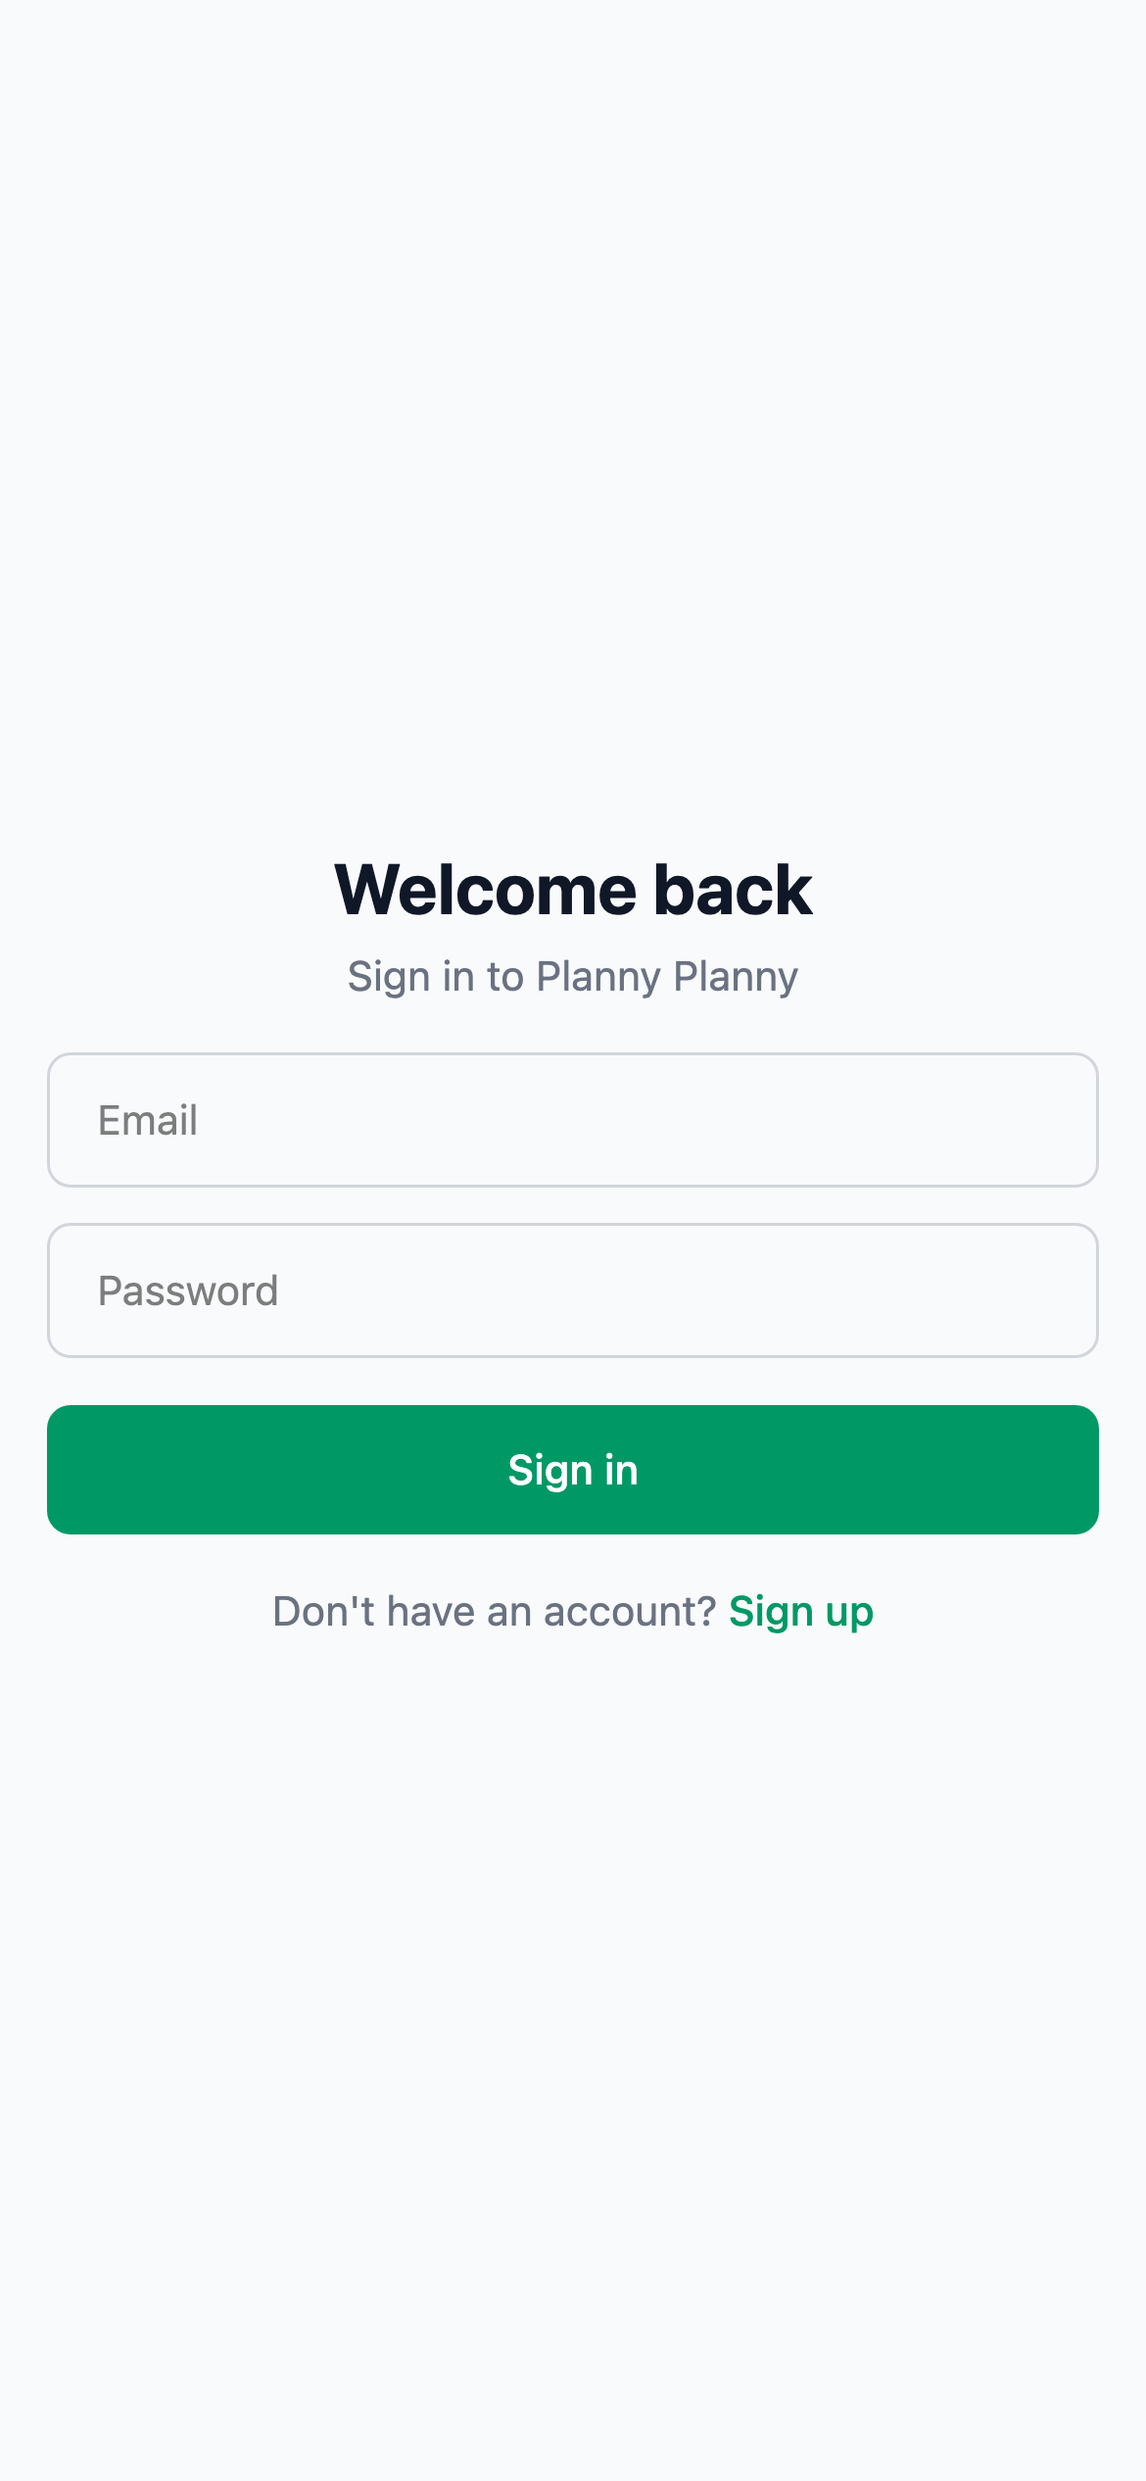
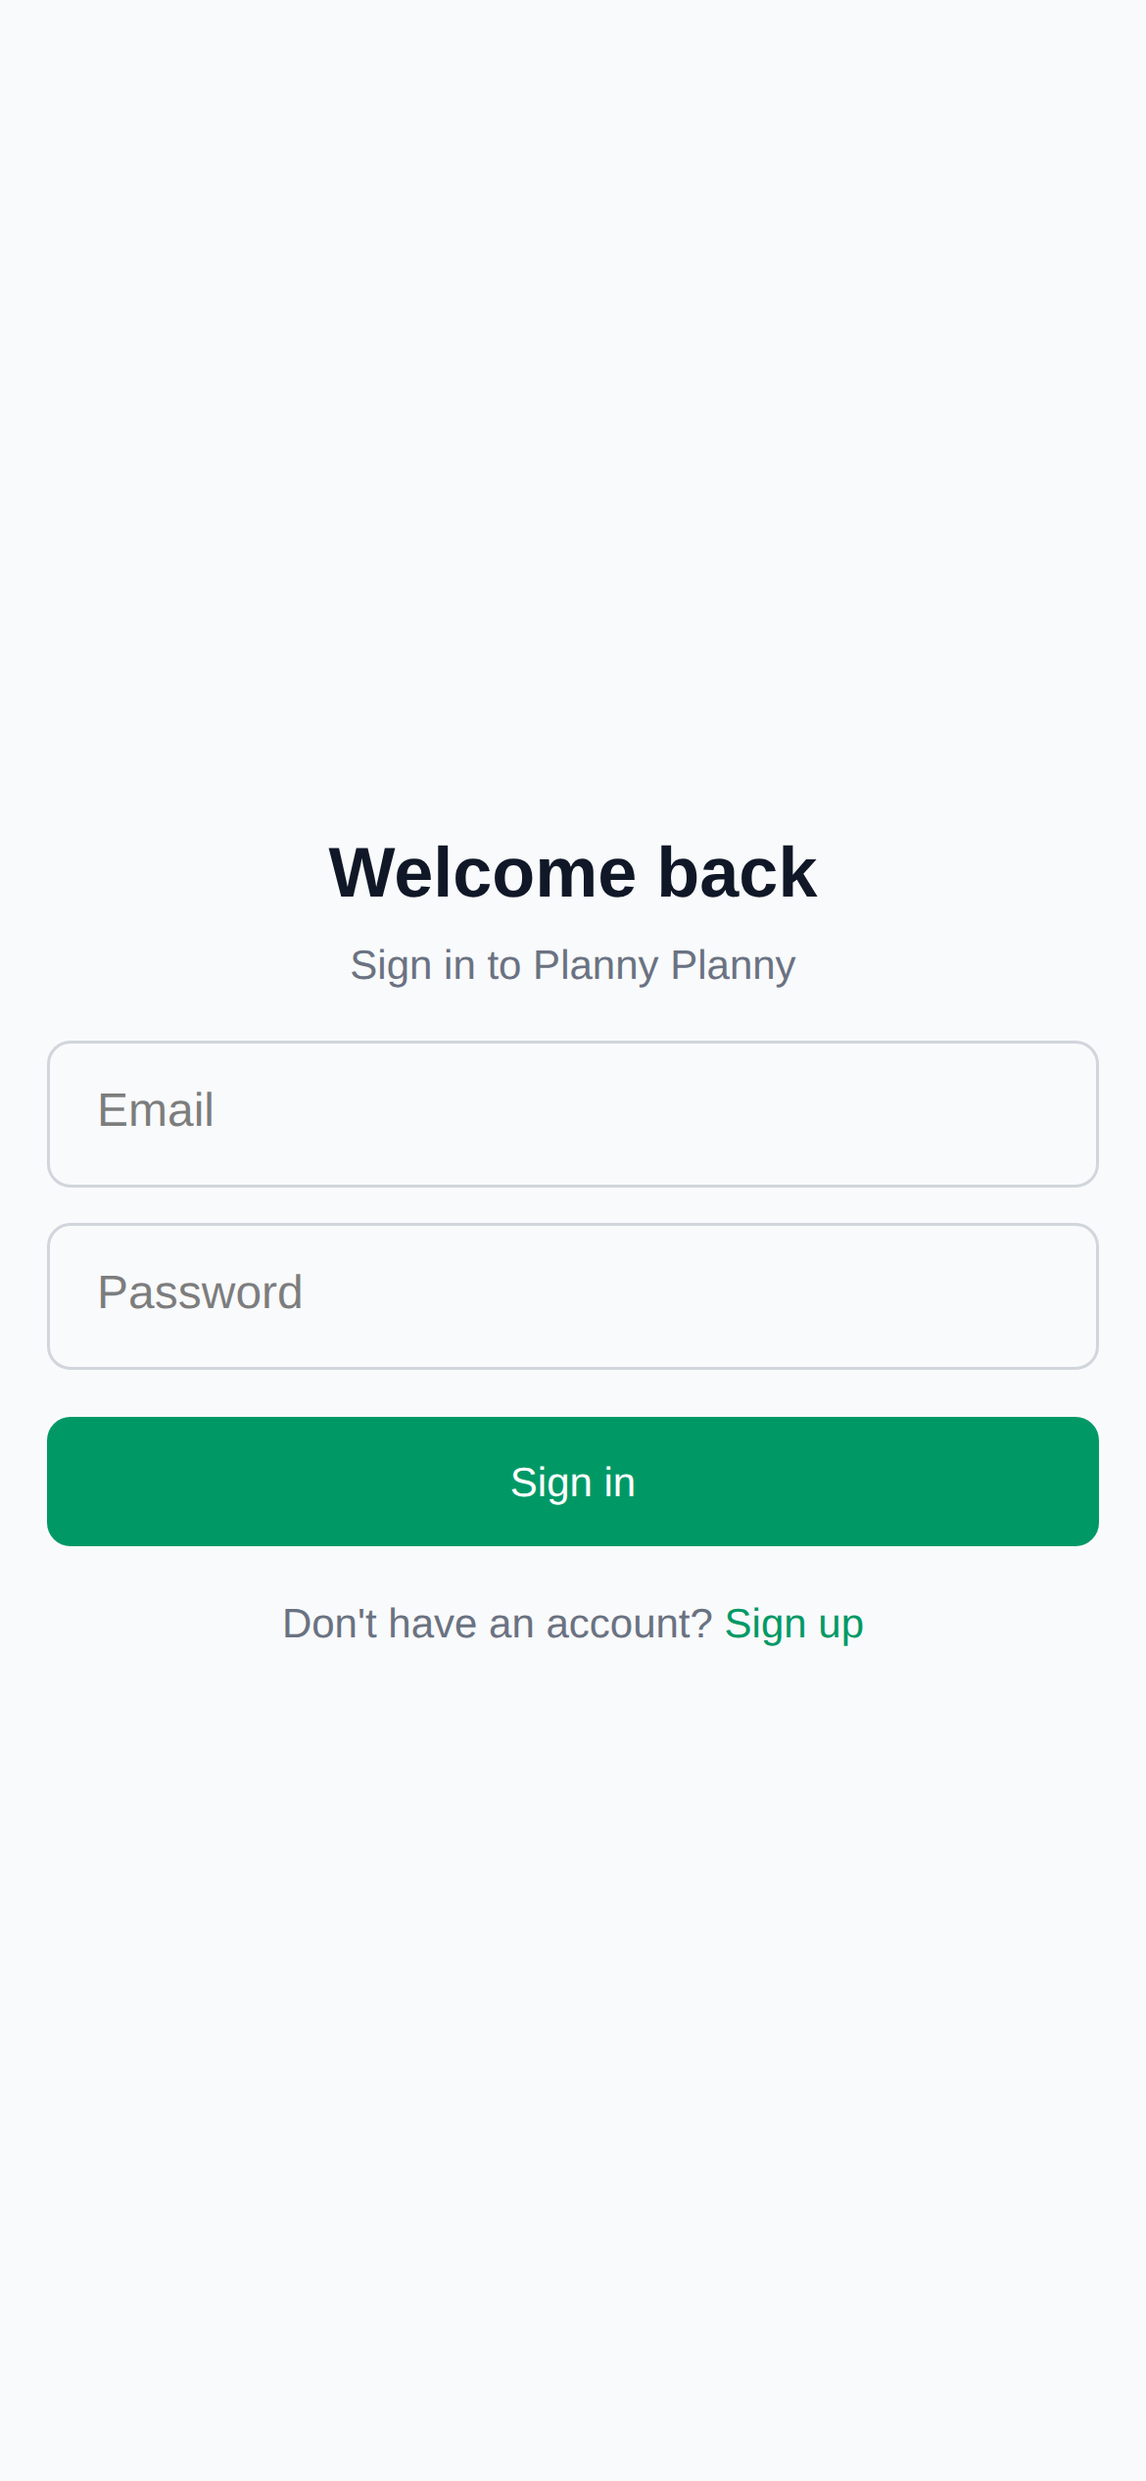
Fix iOS zoom trap: 16px form controls, remove gesture blockers, add DR-018 and BDD guards

diff --git a/index.html b/index.html
@@ -4,13 +4,15 @@
     <meta charset="UTF-8" />
     <link rel="icon" type="image/svg+xml" href="/favicon.svg" />
     <!--
-      We deliberately do NOT set `maximum-scale=1` / `user-scalable=no`
-      here. Those flags block pinch-to-zoom on every browser that honours
-      them (Android Chrome, Firefox, etc.) which is an accessibility
-      regression for low-vision users — and they don't actually fix the
-      iOS-Safari sticky-header pinch bug we're trying to address (Safari
-      ignores them). The iOS-specific `gesturestart` handler at the
-      bottom of `<body>` does the real work.
+      Viewport policy (see docs/drs/dr-018-mobile-viewport-and-zoom.md):
+      - No `maximum-scale=1` / `user-scalable=no`: they block pinch-zoom on
+        browsers that honour them (an accessibility regression) and iOS
+        Safari ignores them anyway.
+      - No JavaScript `gesture*` blocking: it can trap iOS users at
+        whatever zoom level Safari's input auto-zoom left them at.
+      - The real fix for unwanted iOS zoom is form controls rendering at
+        ≥16px (Safari only auto-zooms on focus of smaller text) plus
+        `touch-action: manipulation` in index.css for double-tap zoom.
     -->
     <meta
       name="viewport"
@@ -25,21 +27,6 @@
   <body>
     <div id="root"></div>
     <script type="module" src="/src/main.tsx"></script>
-    <script>
-      // iOS Safari ignores `user-scalable=no` in the viewport meta and will
-      // still pinch-zoom the page, which on a chrome-free PWA-style layout
-      // visibly distorts the sticky header (the user-reported bug).
-      // Cancelling the `gesture*` events at the document level — which only
-      // fire on iOS Safari — fixes that one symptom on that one browser.
-      //
-      // Accessibility note: this disables pinch-zoom on iOS Safari only.
-      // Every other browser keeps full zoom support thanks to the relaxed
-      // viewport meta above. iOS users who need to magnify can still use
-      // Settings → Accessibility → Zoom (system-level magnifier).
-      document.addEventListener('gesturestart', (e) => e.preventDefault())
-      document.addEventListener('gesturechange', (e) => e.preventDefault())
-      document.addEventListener('gestureend', (e) => e.preventDefault())
-    </script>
     <script>
       if ('serviceWorker' in navigator) {
         window.addEventListener('load', () => {

diff --git a/src/components/auth/RegisterForm.tsx b/src/components/auth/RegisterForm.tsx
@@ -54,7 +54,7 @@ export default function RegisterForm() {
           value={displayName}
           onChange={(e) => setDisplayName(e.target.value)}
           required
-          className="w-full rounded-lg border border-gray-300 px-4 py-3 text-sm focus:border-emerald-500 focus:outline-none focus:ring-1 focus:ring-emerald-500"
+          className="w-full rounded-lg border border-gray-300 px-4 py-3 text-base focus:border-emerald-500 focus:outline-none focus:ring-1 focus:ring-emerald-500"
         />
         <input
           type="email"
@@ -63,7 +63,7 @@ export default function RegisterForm() {
           value={email}
           onChange={(e) => setEmail(e.target.value)}
           required
-          className="w-full rounded-lg border border-gray-300 px-4 py-3 text-sm focus:border-emerald-500 focus:outline-none focus:ring-1 focus:ring-emerald-500"
+          className="w-full rounded-lg border border-gray-300 px-4 py-3 text-base focus:border-emerald-500 focus:outline-none focus:ring-1 focus:ring-emerald-500"
         />
         <input
           type="password"
@@ -73,7 +73,7 @@ export default function RegisterForm() {
           onChange={(e) => setPassword(e.target.value)}
           required
           minLength={6}
-          className="w-full rounded-lg border border-gray-300 px-4 py-3 text-sm focus:border-emerald-500 focus:outline-none focus:ring-1 focus:ring-emerald-500"
+          className="w-full rounded-lg border border-gray-300 px-4 py-3 text-base focus:border-emerald-500 focus:outline-none focus:ring-1 focus:ring-emerald-500"
         />
         <input
           type="password"
@@ -83,7 +83,7 @@ export default function RegisterForm() {
           onChange={(e) => setConfirmPassword(e.target.value)}
           required
           minLength={6}
-          className="w-full rounded-lg border border-gray-300 px-4 py-3 text-sm focus:border-emerald-500 focus:outline-none focus:ring-1 focus:ring-emerald-500"
+          className="w-full rounded-lg border border-gray-300 px-4 py-3 text-base focus:border-emerald-500 focus:outline-none focus:ring-1 focus:ring-emerald-500"
         />
       </div>
 

diff --git a/src/components/calendar/MealPlanForm.tsx b/src/components/calendar/MealPlanForm.tsx
@@ -153,7 +153,7 @@ export default function MealPlanForm({
             placeholder="What's for dinner?"
             value={title}
             onChange={(e) => setTitle(e.target.value)}
-            className="w-full rounded-md border border-gray-300 px-3 py-2 text-sm placeholder:text-gray-400 focus:border-emerald-500 focus:ring-1 focus:ring-emerald-500 focus:outline-none"
+            className="w-full rounded-md border border-gray-300 px-3 py-2 text-base placeholder:text-gray-400 focus:border-emerald-500 focus:ring-1 focus:ring-emerald-500 focus:outline-none"
             autoFocus
             required
           />
@@ -169,7 +169,7 @@ export default function MealPlanForm({
             value={description}
             onChange={(e) => setDescription(e.target.value)}
             rows={2}
-            className="w-full rounded-md border border-gray-300 px-3 py-2 text-sm placeholder:text-gray-400 focus:border-emerald-500 focus:ring-1 focus:ring-emerald-500 focus:outline-none"
+            className="w-full rounded-md border border-gray-300 px-3 py-2 text-base placeholder:text-gray-400 focus:border-emerald-500 focus:ring-1 focus:ring-emerald-500 focus:outline-none"
           />
         </div>
 
@@ -212,7 +212,7 @@ export default function MealPlanForm({
                 setTimeout(() => setShowDropdown(false), 200)
               }}
               onKeyDown={handleSearchKeyDown}
-              className="w-full rounded-md border border-gray-300 px-3 py-2 text-sm placeholder:text-gray-400 focus:border-emerald-500 focus:ring-1 focus:ring-emerald-500 focus:outline-none"
+              className="w-full rounded-md border border-gray-300 px-3 py-2 text-base placeholder:text-gray-400 focus:border-emerald-500 focus:ring-1 focus:ring-emerald-500 focus:outline-none"
             />
 
             {showDropdown && ingredientSearch.trim() && (

diff --git a/src/components/settings/InviteManager.tsx b/src/components/settings/InviteManager.tsx
@@ -119,7 +119,7 @@ export default function InviteManager() {
             placeholder="friend@example.com"
             aria-label="Recipient email"
             data-testid="invite-email-input"
-            className="w-full min-h-[44px] rounded-md border border-gray-300 px-3 py-2 text-sm focus:border-emerald-500 focus:ring-1 focus:ring-emerald-500 focus:outline-none"
+            className="w-full min-h-[44px] rounded-md border border-gray-300 px-3 py-2 text-base focus:border-emerald-500 focus:ring-1 focus:ring-emerald-500 focus:outline-none"
           />
           <div className="flex items-center gap-2">
             <select
@@ -127,7 +127,7 @@ export default function InviteManager() {
               onChange={(e) => setInviteRole(e.target.value as InvitableRole)}
               aria-label="Invite role"
               data-testid="invite-role-select"
-              className="min-h-[44px] flex-1 rounded-md border border-gray-300 px-2 py-2 text-sm focus:border-emerald-500 focus:ring-1 focus:ring-emerald-500 focus:outline-none"
+              className="min-h-[44px] flex-1 rounded-md border border-gray-300 px-2 py-2 text-base focus:border-emerald-500 focus:ring-1 focus:ring-emerald-500 focus:outline-none"
             >
               {INVITABLE_ROLES.map((role) => (
                 <option key={role} value={role}>

diff --git a/src/index.css b/src/index.css
@@ -37,14 +37,28 @@
 }
 
 /*
- * iOS Safari ignores `user-scalable=no` on the viewport meta tag — pinch
- * gestures still trigger a zoom, which on a chrome-free PWA-style layout
- * visibly distorts the sticky header. Setting `touch-action: manipulation`
- * here disables double-tap-to-zoom, and the global `gesturestart`
- * handler in `index.html` cancels the pinch-zoom gesture on iOS.
+ * Zoom policy — see docs/drs/dr-018-mobile-viewport-and-zoom.md.
+ * `touch-action: manipulation` removes double-tap-to-zoom (and the 300ms
+ * tap delay) while deliberately leaving pinch-zoom available for
+ * accessibility on every platform.
  */
 html, body {
   touch-action: manipulation;
+}
+
+/*
+ * iOS Safari auto-zooms the whole viewport when a form control with a
+ * computed font-size below 16px receives focus — and that zoom sticks
+ * after the keyboard closes. Guarantee every field is at least 1rem
+ * (16px) so the auto-zoom never triggers. Components use `text-base`
+ * explicitly; this base rule is the safety net for any control that
+ * forgets to set a size. Never add a smaller text-* utility to an
+ * input, textarea or select.
+ */
+@layer base {
+  input, textarea, select {
+    font-size: 1rem;
+  }
 }
 
 /* Match the iOS status-bar / safe-area background to the header colour */

diff --git a/src/components/settings/HouseholdSettings.tsx b/src/components/settings/HouseholdSettings.tsx
@@ -90,7 +90,7 @@ export default function HouseholdSettings() {
               value={name}
               onChange={(e) => setName(e.target.value)}
               disabled={isReadOnly}
-              className="w-full rounded-md border border-gray-300 px-3 py-2 text-sm focus:border-emerald-500 focus:ring-1 focus:ring-emerald-500 focus:outline-none disabled:bg-gray-50 disabled:text-gray-500"
+              className="w-full rounded-md border border-gray-300 px-3 py-2 text-base focus:border-emerald-500 focus:ring-1 focus:ring-emerald-500 focus:outline-none disabled:bg-gray-50 disabled:text-gray-500"
             />
           </div>
 
@@ -105,7 +105,7 @@ export default function HouseholdSettings() {
               onChange={(e) => setAlias(e.target.value)}
               disabled={isReadOnly}
               placeholder="e.g., 123 Oak Street"
-              className="w-full rounded-md border border-gray-300 px-3 py-2 text-sm focus:border-emerald-500 focus:ring-1 focus:ring-emerald-500 focus:outline-none disabled:bg-gray-50 disabled:text-gray-500"
+              className="w-full rounded-md border border-gray-300 px-3 py-2 text-base focus:border-emerald-500 focus:ring-1 focus:ring-emerald-500 focus:outline-none disabled:bg-gray-50 disabled:text-gray-500"
             />
           </div>
 

diff --git a/src/components/calendar/DayContextForm.tsx b/src/components/calendar/DayContextForm.tsx
@@ -88,7 +88,7 @@ export default function DayContextForm({
             placeholder="e.g. Mum visiting"
             value={eventName}
             onChange={(e) => setEventName(e.target.value)}
-            className="mt-1 w-full rounded-md border border-gray-300 px-3 py-2 text-sm placeholder:text-gray-400 focus:border-emerald-500 focus:ring-1 focus:ring-emerald-500 focus:outline-none"
+            className="mt-1 w-full rounded-md border border-gray-300 px-3 py-2 text-base placeholder:text-gray-400 focus:border-emerald-500 focus:ring-1 focus:ring-emerald-500 focus:outline-none"
             autoFocus
           />
         </div>
@@ -103,7 +103,7 @@ export default function DayContextForm({
             min={date}
             value={endDate}
             onChange={(e) => setEndDate(e.target.value)}
-            className="mt-1 w-full rounded-md border border-gray-300 px-3 py-2 text-sm focus:border-emerald-500 focus:ring-1 focus:ring-emerald-500 focus:outline-none"
+            className="mt-1 w-full rounded-md border border-gray-300 px-3 py-2 text-base focus:border-emerald-500 focus:ring-1 focus:ring-emerald-500 focus:outline-none"
           />
         </div>
 

diff --git a/tests/integration/steps/layout.steps.ts b/tests/integration/steps/layout.steps.ts
@@ -15,6 +15,27 @@ Then('the viewport should use viewport-fit cover', async ({ page }) => {
   expect(content).toContain('viewport-fit=cover');
 });
 
+// iOS Safari auto-zooms the viewport when a form control with a computed
+// font-size below 16px is focused, and the zoom sticks after the keyboard
+// closes — see docs/drs/dr-018-mobile-viewport-and-zoom.md.
+Then('every form field should render at 16 pixels or larger', async ({ page }) => {
+  const fields = page.locator('input, textarea, select');
+  const count = await fields.count();
+  expect(count).toBeGreaterThan(0);
+  for (let i = 0; i < count; i++) {
+    const fontSize = await fields
+      .nth(i)
+      .evaluate((el) => parseFloat(getComputedStyle(el).fontSize));
+    expect(fontSize).toBeGreaterThanOrEqual(16);
+  }
+});
+
+Then('no gesture-blocking listeners should be registered', async ({ page }) => {
+  const html = await page.content();
+  expect(html).not.toContain('gesturestart');
+  expect(html).not.toContain('gesturechange');
+});
+
 Then('the page should not contain an app header', async ({ page }) => {
   await expect(page.locator('header')).toHaveCount(0);
 });

diff --git a/src/components/settings/CreateHouseholdForm.tsx b/src/components/settings/CreateHouseholdForm.tsx
@@ -101,7 +101,7 @@ export default function CreateHouseholdForm() {
               value={name}
               onChange={(e) => setName(e.target.value)}
               placeholder="My Household"
-              className="w-full rounded-md border border-gray-300 px-3 py-2 text-sm focus:border-emerald-500 focus:ring-1 focus:ring-emerald-500 focus:outline-none"
+              className="w-full rounded-md border border-gray-300 px-3 py-2 text-base focus:border-emerald-500 focus:ring-1 focus:ring-emerald-500 focus:outline-none"
             />
           </div>
 
@@ -115,7 +115,7 @@ export default function CreateHouseholdForm() {
               value={alias}
               onChange={(e) => setAlias(e.target.value)}
               placeholder="e.g., 123 Oak Street"
-              className="w-full rounded-md border border-gray-300 px-3 py-2 text-sm focus:border-emerald-500 focus:ring-1 focus:ring-emerald-500 focus:outline-none"
+              className="w-full rounded-md border border-gray-300 px-3 py-2 text-base focus:border-emerald-500 focus:ring-1 focus:ring-emerald-500 focus:outline-none"
             />
           </div>
 

diff --git a/src/components/auth/LoginForm.tsx b/src/components/auth/LoginForm.tsx
@@ -48,7 +48,7 @@ export default function LoginForm() {
           value={email}
           onChange={(e) => setEmail(e.target.value)}
           required
-          className="w-full rounded-lg border border-gray-300 px-4 py-3 text-sm focus:border-emerald-500 focus:outline-none focus:ring-1 focus:ring-emerald-500"
+          className="w-full rounded-lg border border-gray-300 px-4 py-3 text-base focus:border-emerald-500 focus:outline-none focus:ring-1 focus:ring-emerald-500"
         />
         <input
           type="password"
@@ -57,7 +57,7 @@ export default function LoginForm() {
           value={password}
           onChange={(e) => setPassword(e.target.value)}
           required
-          className="w-full rounded-lg border border-gray-300 px-4 py-3 text-sm focus:border-emerald-500 focus:outline-none focus:ring-1 focus:ring-emerald-500"
+          className="w-full rounded-lg border border-gray-300 px-4 py-3 text-base focus:border-emerald-500 focus:outline-none focus:ring-1 focus:ring-emerald-500"
         />
       </div>
 

diff --git a/src/pages/IngredientsPage.tsx b/src/pages/IngredientsPage.tsx
@@ -58,7 +58,7 @@ export default function IngredientsPage() {
               value={sortBy}
               onChange={(e) => setSortBy(e.target.value as SortOption)}
               aria-label="Sort ingredients"
-              className="min-h-[44px] rounded-md border border-gray-300 py-2 pl-3 pr-8 text-sm focus:border-emerald-500 focus:ring-1 focus:ring-emerald-500 focus:outline-none"
+              className="min-h-[44px] rounded-md border border-gray-300 py-2 pl-3 pr-8 text-base focus:border-emerald-500 focus:ring-1 focus:ring-emerald-500 focus:outline-none"
             >
               {SORT_OPTIONS.map((opt) => (
                 <option key={opt.value} value={opt.value}>

diff --git a/src/components/settings/DayPlaceholders.tsx b/src/components/settings/DayPlaceholders.tsx
@@ -122,7 +122,7 @@ export default function DayPlaceholders() {
                   </label>
                   <input
                     type="text"
-                    className="flex-1 rounded border border-gray-300 px-2 py-1.5 text-xs text-gray-900 placeholder:text-gray-400 disabled:bg-gray-50 disabled:text-gray-400"
+                    className="flex-1 rounded border border-gray-300 px-2 py-1.5 text-base text-gray-900 placeholder:text-gray-400 disabled:bg-gray-50 disabled:text-gray-400"
                     placeholder={`e.g. ${name} theme`}
                     value={labels[index] ?? ''}
                     onChange={(e) => setLabel(index, e.target.value)}
